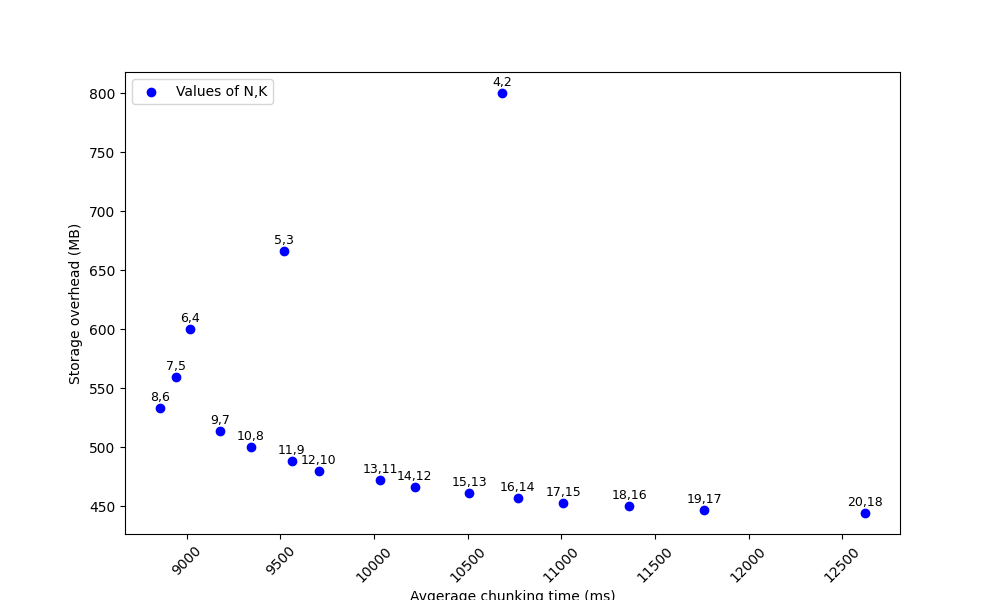
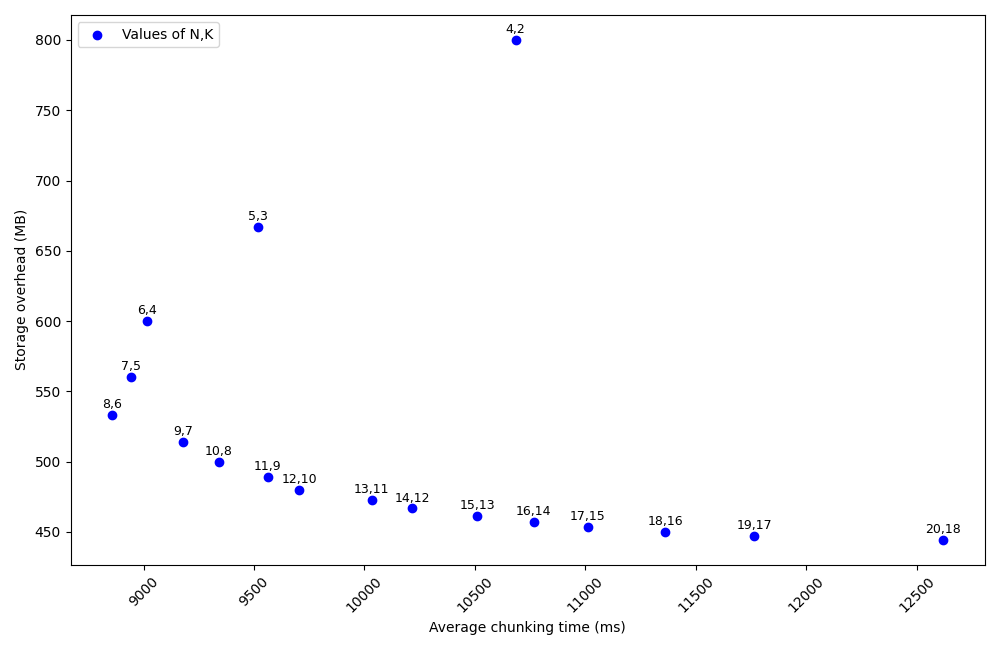
Changes plots

diff --git a/test/test_linearregression.py b/test/test_linearregression.py
@@ -30,7 +30,7 @@ for s in pred.real_records.sizes:
             str = f"{int(X['n'][x])},{int(X['k'][x])}"
             labels.append(str)
     #print(X_str)
-    plt.figure(figsize=(10, 6))  # width: 10 inches, height: 6 inches
+    plt.figure(figsize=(10, 6.5))  # width: 10 inches, height: 6 inches
 
     plt.scatter(time_data, size_data, color = "blue", label="Values of N,K")
     
@@ -39,13 +39,13 @@ for s in pred.real_records.sizes:
 
     
     # Add title and labels
-    plt.xlabel('Avgerage chunking time (ms)')
+    plt.xlabel('Average chunking time (ms)')
     plt.ylabel('Storage overhead (MB)')
     plt.xticks(rotation=45)
     
     plt.legend(loc="upper left")
 
-
+    plt.tight_layout()
     plt.savefig(f"plot/ida_overheads/scatter_{s}MB.png")
     plt.clf()
 
